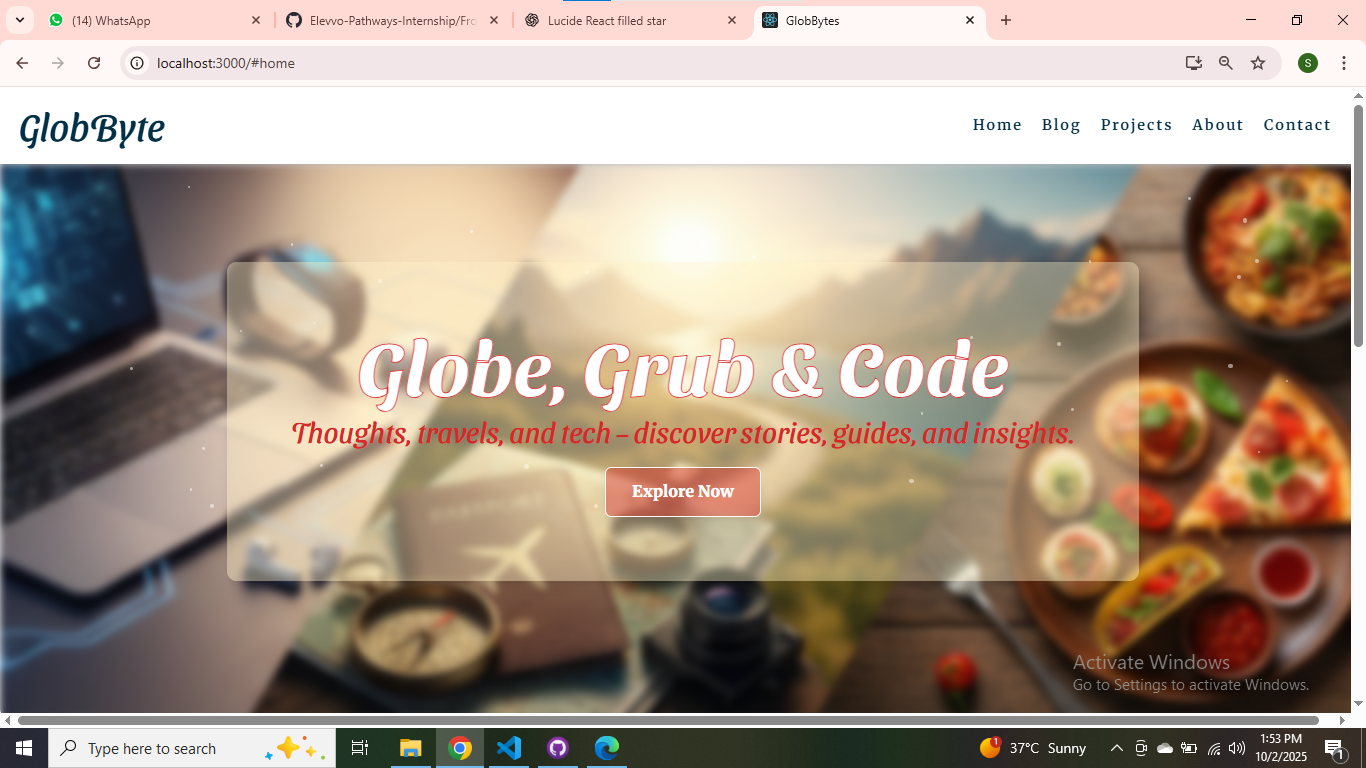
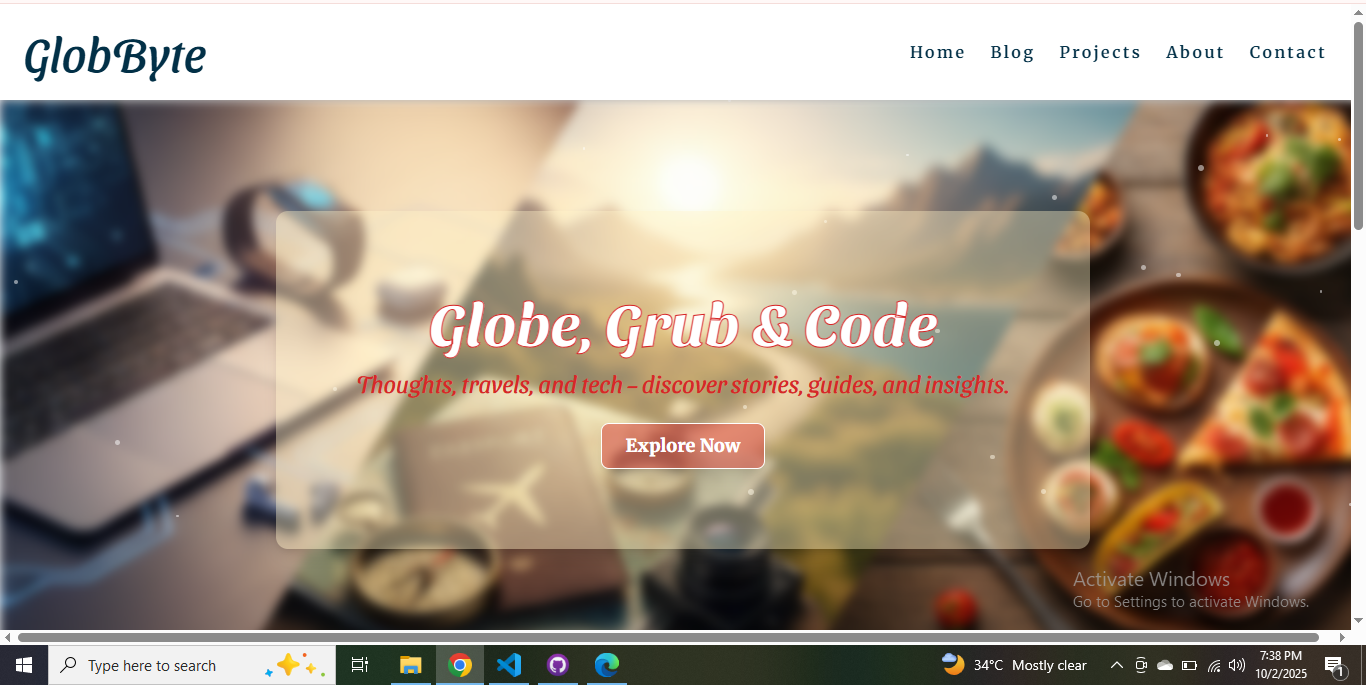
updated

diff --git a/Frontend-Web-Development/Level-2/personal-blog/src/App.js b/Frontend-Web-Development/Level-2/personal-blog/src/App.js
@@ -7,6 +7,7 @@ import "./index.css";
 import Hero from "./components/Hero";
 import Footer from "./components/Footer";
 import Blog from "./components/Blog";
+import { Search } from "lucide-react";
 
 export default function App() {
   const [category, setCategory] = useState("All");
@@ -34,15 +35,17 @@ export default function App() {
       <div className="max-w-6xl mx-auto px-4 homepage pt-7 w-full h-full">
         {/* Search */}
         <div className="flex justify-center my-6">
-          <input
-            type="text"
-            placeholder="Search posts..."
-            value={search}
-            onChange={(e) => setSearch(e.target.value)}
-            className="px-4 py-2 w-full max-w-md border rounded-lg regular-font"
-          />
-        </div>
-
+          <div className="relative w-full max-w-md">
+            <Search className="absolute left-3 top-1/4 -translate-y-1/2 text-gray-500 w-5 h-5" />
+            <input
+              type="text"
+              placeholder="Search posts..."
+              value={search}
+              onChange={(e) => setSearch(e.target.value)}
+              className="pl-10 pr-4 py-2 w-full border rounded-lg regular-font"
+            />
+          </div>
+        </div>{" "}
         {/* Category Filter */}
         <CategoryFilter
           categories={categories}
@@ -52,8 +55,7 @@ export default function App() {
             setPage(1); // reset page
           }}
         />
-
-        <Blog visiblePosts={visiblePosts}/>
+        <Blog visiblePosts={visiblePosts} />
         {/* Pagination */}
         <Pagination
           currentPage={page}
